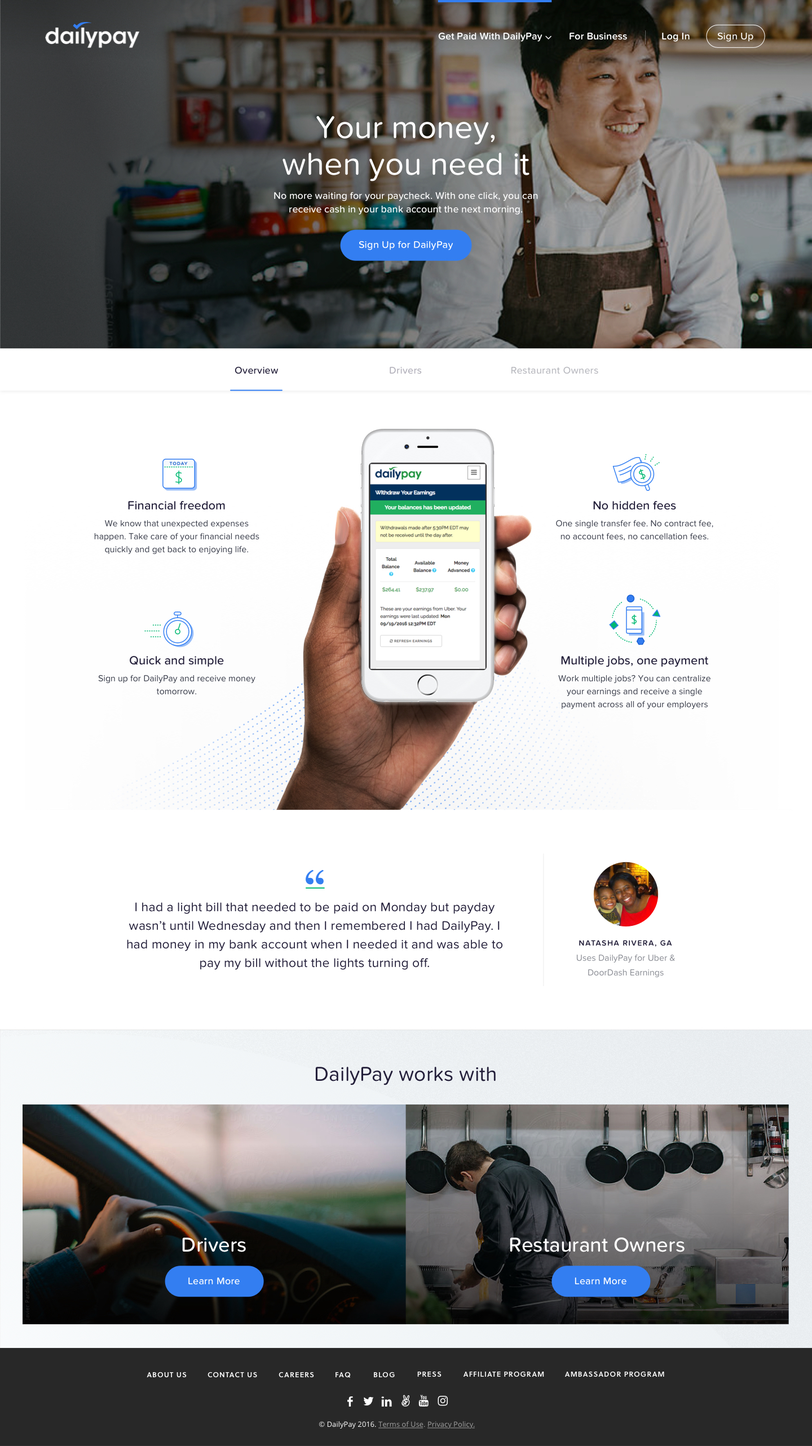
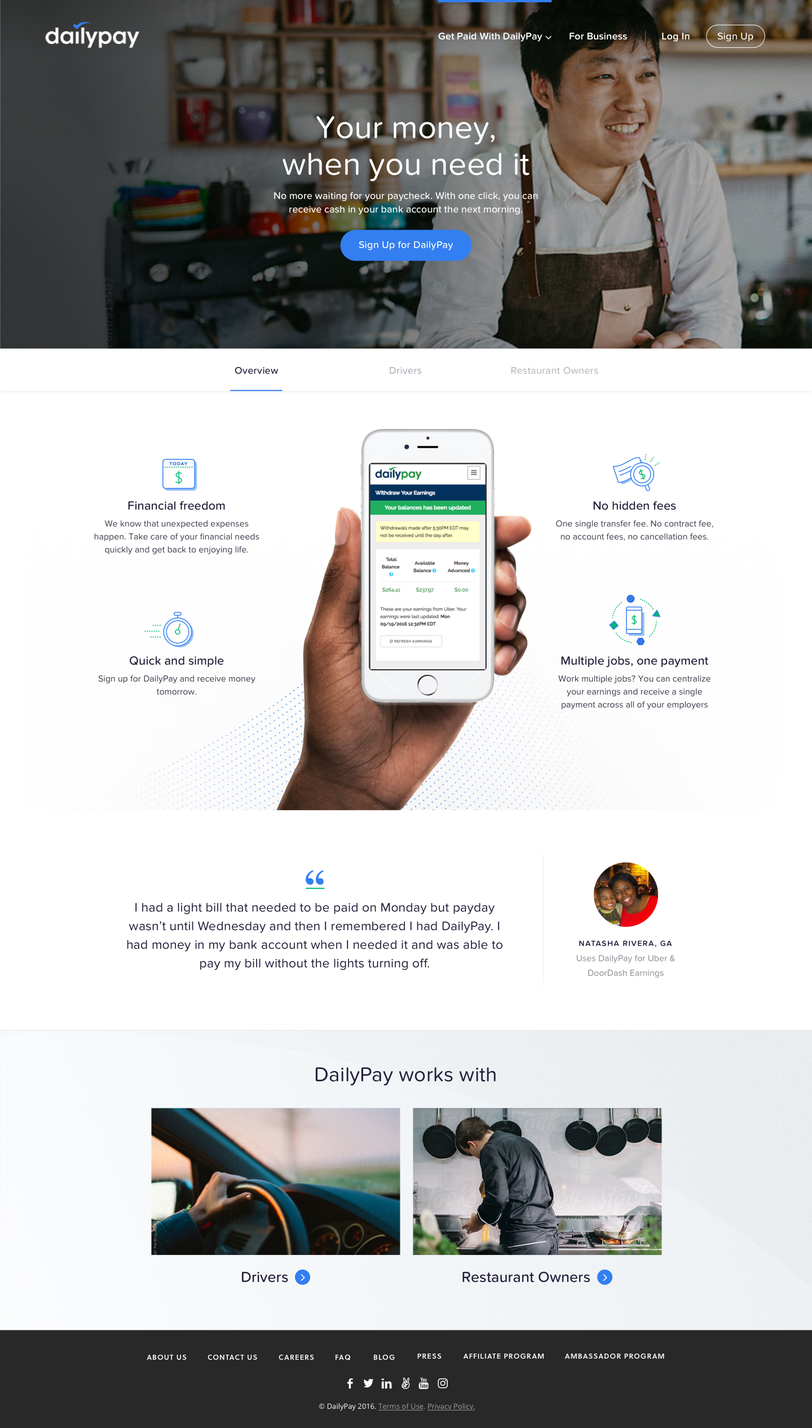
dailypay batch a v1 revisions push

diff --git a/dailypay/batch-a-v1/index.hyperesources/index_hype_generated_script.js b/dailypay/batch-a-v1/index.hyperesources/index_hype_generated_script.js
@@ -3,5 +3,5 @@
 (function(){(function k(){function l(a,b,d){var c=!1;null==window[a]&&(null==window[b]?(window[b]=[],window[b].push(k),a=document.getElementsByTagName("head")[0],b=document.createElement("script"),c=h,false==!0&&(c=""),b.type="text/javascript",b.src=c+"/"+d,a.appendChild(b)):window[b].push(k),c=!0);return c}var h="index.hyperesources",c="index",e="index_hype_container";if(false==!1)try{for(var f=document.getElementsByTagName("script"),
 a=0;a<f.length;a++){var b=f[a].src;if(null!=b&&-1!=b.indexOf("index_hype_generated_script.js")){h=b.substr(0,b.lastIndexOf("/"));break}}}catch(n){}if(false==!1&&(a=navigator.userAgent.match(/MSIE (\d+\.\d+)/),a=parseFloat(a&&a[1])||null,a=l("HYPE_538","HYPE_dtl_538",!0==(null!=a&&10>a||false==!0)?"HYPE-538.full.min.js":"HYPE-538.thin.min.js"),false==!0&&(a=a||l("HYPE_w_538","HYPE_wdtl_538","HYPE-538.waypoints.min.js")),a))return;
 f=window.HYPE.documents;if(null!=f[c]){b=1;a=c;do c=""+a+"-"+b++;while(null!=f[c]);for(var d=document.getElementsByTagName("div"),b=!1,a=0;a<d.length;a++)if(d[a].id==e&&null==d[a].getAttribute("HYP_dn")){var b=1,g=e;do e=""+g+"-"+b++;while(null!=document.getElementById(e));d[a].id=e;b=!0;break}if(!1==b)return}b=[];b=[];d={};g={};for(a=0;a<b.length;a++)try{g[b[a].identifier]=b[a].name,d[b[a].name]=eval("(function(){return "+b[a].source+"})();")}catch(m){window.console&&window.console.log(m),
-d[b[a].name]=function(){}}a=new HYPE_538(c,e,{"10":{p:1,n:"Batch_A_Drivers_v1.jpg",g:"25",o:true,t:"@1x"},"2":{p:1,n:"Drivers.png",g:"37",t:"@1x"},"3":{p:1,n:"Daily%20payments%20for.png",g:"39",t:"@1x"},"11":{p:1,n:"Batch_A_RestaurantOwners_v1.jpg",g:"29",t:"@1x"},"4":{p:1,n:"hero.png",g:"41",t:"@1x"},"5":{p:1,n:"main-nav.png",g:"43",t:"@1x"},"12":{p:1,n:"Batch_A_Business_v1.jpg",g:"31",o:true,t:"@1x"},"6":{n:"dailypay-animation.mp4",g:"52",t:"video/mp4"},"7":{p:1,n:"dropdown.png",g:"57",t:"@1x"},"0":{p:1,n:"hero-btn.png",g:"33",t:"@1x"},"8":{p:1,n:"Batch_A_ConsumerLanding_v1.jpg",g:"23",t:"@1x"},"1":{p:1,n:"Receive%20cash%20daily%20f.png",g:"35",t:"@1x"},"9":{p:1,n:"Batch_A_Homepage_v1.jpg",g:"21",t:"@1x"}},h,[],d,[{n:"Homepage",o:"7",X:[0]},{n:"Consumer Landing",o:"10",X:[1]},{n:"Drivers Page",o:"1",X:[2]},{n:"Restaurant Owners",o:"13",X:[3]},{n:"For Business",o:"16",X:[4]}],[{o:"9",p:"600px",x:0,cA:false,Z:2584,Y:1440,c:"#FFFFFF",L:[],bY:1,d:1440,U:{},T:{"59":{f:30,z:0.09,i:"59",n:"Dropdown Animation",j:{"0":[[882,190,882,190,882,181,882,181]]},a:[{f:"61",y:0,z:0.09,i:"e",e:1,s:0,o:"94"},{o:"94",y:0,z:0.09,i:"b",e:88,a:"0",f:"61",s:97},{o:"94",y:0,z:0.09,i:"a",e:760,a:"0",f:"61",s:760},{y:0,i:"cY",s:"0",z:0,o:"94",f:"61"},{y:0.09,i:"e",s:1,z:0,o:"94",f:"c"},{y:0.09,i:"a",s:760,z:0,o:"94",f:"c"},{y:0.09,i:"b",s:88,z:0,o:"94",f:"c"}],b:[]},kTimelineDefaultIdentifier:{i:"kTimelineDefaultIdentifier",n:"Main Timeline",z:0,b:[],a:[],f:30}},bZ:180,O:["94","95","93","92","91"],v:{"92":{c:177,d:62,I:"Solid",e:0,J:"Solid",K:"Solid",g:"#E8EBED",L:"Solid",aP:"pointer",M:1,N:1,A:"#D8DDE4",x:"visible",aA:{a:[{d:1.1000000000000001,p:1,g:1,e:"7"}]},j:"absolute",O:1,k:"div",C:"#D8DDE4",z:2,B:"#D8DDE4",D:"#D8DDE4",P:1,a:72,b:32},"95":{c:208,d:55,I:"Solid",e:0,J:"Solid",K:"Solid",g:"#E8EBED",L:"Solid",aP:"pointer",M:1,N:1,A:"#D8DDE4",x:"visible",aA:{a:[{d:1.1000000000000001,p:1,g:1,e:"10"}]},O:1,j:"absolute",k:"div",C:"#D8DDE4",z:5,B:"#D8DDE4",D:"#D8DDE4",aC:{a:[{b:"59",p:3,z:true,symbolOid:"8"}]},P:1,a:772,aD:{a:[{b:"59",p:3,z:false,symbolOid:"8"}]},b:46},"91":{h:"21",p:"no-repeat",x:"visible",a:0,q:"100% 100%",b:0,j:"absolute",r:"inline",c:1440,k:"div",z:1,d:2584},"94":{h:"57",p:"no-repeat",x:"visible",tY:0.5,a:760,b:88,q:"100% 100%",j:"absolute",z:6,cY:"1",k:"div",d:186,c:244,r:"inline",e:1,tX:0.5},"93":{c:108,d:33,I:"Solid",e:0,J:"Solid",K:"Solid",g:"#E8EBED",L:"Solid",aP:"pointer",M:1,N:1,A:"#D8DDE4",x:"visible",aA:{a:[{d:1.1000000000000001,p:1,g:1,e:"16"}]},j:"absolute",O:1,k:"div",C:"#D8DDE4",z:4,B:"#D8DDE4",D:"#D8DDE4",P:1,a:1004,b:46}}},{o:"12",p:"600px",x:1,cA:false,Z:2566,Y:1440,c:"#FFFFFF",L:[],bY:1,d:1440,U:{},T:{kTimelineDefaultIdentifier:{i:"kTimelineDefaultIdentifier",n:"Main Timeline",z:0,b:[],a:[],f:30}},bZ:180,O:["102","101","100","99","98","97","96"],v:{"99":{c:208,d:55,I:"Solid",e:0,J:"Solid",K:"Solid",g:"#E8EBED",L:"Solid",aP:"pointer",M:1,N:1,A:"#D8DDE4",x:"visible",aA:{a:[{d:1.1000000000000001,p:1,g:1,e:"10"}]},O:1,j:"absolute",k:"div",C:"#D8DDE4",z:4,B:"#D8DDE4",D:"#D8DDE4",aC:{a:[{b:"59",p:3,z:true,symbolOid:"8"}]},P:1,a:772,aD:{a:[{b:"59",p:3,z:false,symbolOid:"8"}]},b:46},"102":{c:177,d:68,I:"Solid",e:0,J:"Solid",K:"Solid",g:"#E8EBED",L:"Solid",aP:"pointer",M:1,N:1,A:"#D8DDE4",x:"visible",aA:{a:[{d:1.1000000000000001,p:1,g:1,e:"13"}]},j:"absolute",O:1,k:"div",C:"#D8DDE4",z:7,B:"#D8DDE4",D:"#D8DDE4",P:1,a:892,b:621},"97":{c:177,d:62,I:"Solid",e:0,J:"Solid",K:"Solid",g:"#E8EBED",L:"Solid",aP:"pointer",M:1,N:1,A:"#D8DDE4",x:"visible",aA:{a:[{d:1.1000000000000001,p:1,g:1,e:"7"}]},j:"absolute",O:1,k:"div",C:"#D8DDE4",z:2,B:"#D8DDE4",D:"#D8DDE4",P:1,a:72,b:32},"101":{c:100,d:68,I:"Solid",e:0,J:"Solid",K:"Solid",g:"#E8EBED",L:"Solid",aP:"pointer",M:1,N:1,A:"#D8DDE4",x:"visible",aA:{a:[{d:1.1000000000000001,p:1,g:1,e:"1"}]},j:"absolute",O:1,k:"div",C:"#D8DDE4",z:6,B:"#D8DDE4",D:"#D8DDE4",P:1,a:669,b:621},"98":{c:108,d:33,I:"Solid",e:0,J:"Solid",K:"Solid",g:"#E8EBED",L:"Solid",aP:"pointer",M:1,N:1,A:"#D8DDE4",x:"visible",aA:{a:[{d:1.1000000000000001,p:1,g:1,e:"16"}]},j:"absolute",O:1,k:"div",C:"#D8DDE4",z:3,B:"#D8DDE4",D:"#D8DDE4",P:1,a:1004,b:46},"100":{c:100,d:55,I:"Solid",e:0,J:"Solid",K:"Solid",g:"#E8EBED",L:"Solid",aP:"pointer",M:1,N:1,A:"#D8DDE4",x:"visible",aA:{a:[{d:1.1000000000000001,p:1,g:1,e:"10"}]},j:"absolute",O:1,k:"div",C:"#D8DDE4",z:5,B:"#D8DDE4",D:"#D8DDE4",P:1,a:405,b:627},"96":{h:"23",p:"no-repeat",x:"visible",a:0,q:"100% 100%",b:0,j:"absolute",r:"inline",c:1440,k:"div",z:1,d:2566}}},{o:"3",p:"600px",x:2,cA:false,Z:5341,Y:1440,c:"#F8F8F8",L:[],bY:1,d:1440,U:{},T:{kTimelineDefaultIdentifier:{f:30,z:17.04,i:"kTimelineDefaultIdentifier",n:"Main Timeline",j:{"3":[[718,306,718,306,718,291,718,291]],"1":[[721,242,721,242,721,227,721,227]],"4":[[718,378,718,378,718,363,718,363]],"2":[[876.5,2,876.5,2,877,2,877,2]],"5":[[720,452,720,452,720,437,720,437]]},a:[{f:"46",y:0,z:0.23,i:"cQ",e:1.02,s:1.2,o:"108"},{f:"46",y:0,z:0.23,i:"cR",e:1.02,s:1.2,o:"108"},{f:"c",y:0,z:0.23,i:"e",e:1,s:0,o:"108"},{f:"c",y:0,z:1,i:"e",e:1,s:0,o:"109"},{f:"c",y:0,z:1,i:"e",e:1,s:0,o:"111"},{y:0,p:1,i:"Video Track",z:17.04,o:"112",f:"a"},{o:"107",y:0.03,z:0.27,i:"b",e:210,a:"1",f:"c",s:225},{o:"107",y:0.03,z:0.27,i:"a",e:569.5,a:"1",f:"c",s:569.5},{f:"c",y:0.03,z:0.27,i:"e",e:1,s:0,o:"107"},{f:"87",y:0.06,z:0.06,i:"e",e:1,s:0,o:"119"},{o:"119",y:0.06,z:0.12,i:"a",e:774.5,a:"2",f:"87",s:876.5},{o:"119",y:0.06,z:0.12,i:"b",e:0,a:"2",f:"87",s:0},{f:"87",y:0.06,z:0.12,i:"c",e:205,s:0,o:"119"},{o:"106",y:0.07,z:0.23,i:"b",e:265.5,a:"3",f:"c",s:280.5},{o:"106",y:0.07,z:0.23,i:"a",e:607.5,a:"3",f:"c",s:607.5},{f:"c",y:0.07,z:0.23,i:"e",e:1,s:0,o:"106"},{o:"105",y:0.11,z:0.22,i:"b",e:342.5,a:"4",f:"c",s:357.5},{o:"105",y:0.11,z:0.22,i:"a",e:515,a:"4",f:"c",s:515},{f:"c",y:0.11,z:0.22,i:"e",e:1,s:0,o:"105"},{y:0.12,i:"e",s:1,z:0,o:"119",f:"c"},{o:"104",y:0.14,z:0.19,i:"b",e:409,a:"5",f:"c",s:424},{o:"104",y:0.14,z:0.19,i:"a",e:603,a:"5",f:"c",s:603},{f:"c",y:0.14,z:0.19,i:"e",e:1,s:0,o:"104"},{y:0.18,i:"b",s:0,z:0,o:"119",f:"c"},{y:0.18,i:"a",s:774,z:0,o:"119",f:"c"},{y:0.18,i:"c",s:205,z:0,o:"119",f:"c"},{y:0.23,i:"cQ",s:1.02,z:0,o:"108",f:"c"},{y:0.23,i:"cR",s:1.02,z:0,o:"108",f:"c"},{y:0.23,i:"e",s:1,z:0,o:"108",f:"c"},{y:1,i:"b",s:210,z:0,o:"107",f:"c"},{y:1,i:"a",s:569.5,z:0,o:"107",f:"c"},{y:1,i:"e",s:1,z:0,o:"107",f:"c"},{y:1,i:"b",s:265.5,z:0,o:"106",f:"c"},{y:1,i:"a",s:607.5,z:0,o:"106",f:"c"},{y:1,i:"e",s:1,z:0,o:"106",f:"c"},{y:1,i:"e",s:1,z:0,o:"109",f:"c"},{y:1,i:"e",s:1,z:0,o:"111",f:"c"},{y:1.03,i:"b",s:342.5,z:0,o:"105",f:"c"},{y:1.03,i:"a",s:515,z:0,o:"105",f:"c"},{y:1.03,i:"e",s:1,z:0,o:"105",f:"c"},{y:1.03,i:"b",s:409,z:0,o:"104",f:"c"},{y:1.03,i:"a",s:603,z:0,o:"104",f:"c"},{y:1.03,i:"e",s:1,z:0,o:"104",f:"c"}],b:[]}},bZ:180,O:["118","117","116","115","114","113","112","119","109","107","106","105","104","108","110","103","111"],v:{"114":{c:108,d:33,I:"Solid",e:0,J:"Solid",K:"Solid",g:"#E8EBED",L:"Solid",aP:"pointer",M:1,N:1,A:"#D8DDE4",x:"visible",aA:{a:[{d:1.1000000000000001,p:1,g:1,e:"16"}]},j:"absolute",O:1,k:"div",C:"#D8DDE4",z:13,B:"#D8DDE4",D:"#D8DDE4",P:1,a:1004,b:46},"103":{h:"25",p:"no-repeat",x:"visible",a:0,q:"100% 100%",b:-620,j:"absolute",bF:"111",c:1440,k:"div",z:1,d:5341,r:"inline"},"117":{c:100,d:68,I:"Solid",e:0,J:"Solid",K:"Solid",g:"#E8EBED",L:"Solid",aP:"pointer",M:1,N:1,A:"#D8DDE4",x:"visible",aA:{a:[{d:1.1000000000000001,p:1,g:1,e:"1"}]},j:"absolute",O:1,k:"div",C:"#D8DDE4",z:16,B:"#D8DDE4",D:"#D8DDE4",P:1,a:669,b:621},"112":{aR:true,x:"visible",bE:"52",a:0,b:1858,j:"absolute",z:11,k:"video",aO:false,d:934,c:1440,cQ:1.01,cR:1.01,aQ:true,aH:true},"106":{h:"37",p:"no-repeat",x:"visible",tY:0.5,a:607.5,q:"100% 100%",j:"absolute",b:280.5,z:4,k:"div",bF:"110",d:51,c:221,r:"inline",e:0,tX:0.5},"109":{h:"43",p:"no-repeat",x:"visible",tY:0.5,a:80,q:"100% 100%",j:"absolute",b:34,z:9,k:"div",c:1277,d:47,r:"inline",e:0,tX:0.5},"104":{h:"33",p:"no-repeat",x:"visible",tY:0.5,a:603,q:"100% 100%",j:"absolute",b:424,z:2,k:"div",bF:"110",d:56,c:234,r:"inline",e:0,tX:0.5},"110":{k:"div",x:"hidden",c:1440,d:620,z:3,a:0,j:"absolute",b:0},"115":{c:208,d:55,I:"Solid",e:0,J:"Solid",K:"Solid",g:"#E8EBED",L:"Solid",aP:"pointer",M:1,N:1,A:"#D8DDE4",x:"visible",aA:{a:[{d:1.1000000000000001,p:1,g:1,e:"10"}]},O:1,j:"absolute",k:"div",C:"#D8DDE4",z:14,B:"#D8DDE4",D:"#D8DDE4",aC:{a:[{b:"59",p:3,z:true,symbolOid:"8"}]},P:1,a:772,aD:{a:[{b:"59",p:3,z:false,symbolOid:"8"}]},b:46},"118":{c:177,d:68,I:"Solid",e:0,J:"Solid",K:"Solid",g:"#E8EBED",L:"Solid",aP:"pointer",M:1,N:1,A:"#D8DDE4",x:"visible",aA:{a:[{d:1.1000000000000001,p:1,g:1,e:"13"}]},j:"absolute",O:1,k:"div",C:"#D8DDE4",z:17,B:"#D8DDE4",D:"#D8DDE4",P:1,a:892,b:621},"107":{h:"39",p:"no-repeat",x:"visible",tY:0.5,a:569.5,q:"100% 100%",j:"absolute",b:225,z:5,k:"div",bF:"110",d:34,c:303,r:"inline",e:0,tX:0.5},"113":{c:177,d:62,I:"Solid",e:0,J:"Solid",K:"Solid",g:"#E8EBED",L:"Solid",aP:"pointer",M:1,N:1,A:"#D8DDE4",x:"visible",aA:{a:[{d:1.1000000000000001,p:1,g:1,e:"7"}]},j:"absolute",O:1,k:"div",C:"#D8DDE4",z:12,B:"#D8DDE4",D:"#D8DDE4",P:1,a:72,b:32},"116":{c:100,d:55,I:"Solid",e:0,J:"Solid",K:"Solid",g:"#E8EBED",L:"Solid",aP:"pointer",M:1,N:1,A:"#D8DDE4",x:"visible",aA:{a:[{d:1.1000000000000001,p:1,g:1,e:"10"}]},j:"absolute",O:1,k:"div",C:"#D8DDE4",z:15,B:"#D8DDE4",D:"#D8DDE4",P:1,a:405,b:627},"105":{h:"35",p:"no-repeat",x:"visible",tY:0.5,a:515,q:"100% 100%",j:"absolute",b:357.5,z:3,k:"div",bF:"110",d:41,c:406,r:"inline",e:0,tX:0.5},"111":{x:"hidden",k:"div",c:1440,d:4721,z:1,e:0,a:0,j:"absolute",b:620},"119":{b:0,c:0,d:4,I:"None",e:0,J:"None",K:"None",g:"#337FF2",L:"None",M:0,N:0,A:"#D8DDE4",x:"visible",j:"absolute",k:"div",O:0,B:"#D8DDE4",C:"#D8DDE4",z:10,P:0,D:"#D8DDE4",tX:0.5,a:876.5,tY:0.5},"108":{h:"41",p:"no-repeat",x:"visible",a:1,q:"100% 100%",b:0,j:"absolute",bF:"110",z:1,k:"div",c:1440,d:620.56899999999996,r:"inline",cQ:1.2,e:0,cR:1.2}}},{o:"15",p:"600px",x:3,cA:false,Z:5368,Y:1440,c:"#FFFFFF",L:[],bY:1,d:1440,U:{},T:{kTimelineDefaultIdentifier:{i:"kTimelineDefaultIdentifier",n:"Main Timeline",z:0,b:[],a:[],f:30}},bZ:180,O:["126","125","124","123","122","121","120"],v:{"122":{c:108,d:33,I:"Solid",e:0,J:"Solid",K:"Solid",g:"#E8EBED",L:"Solid",aP:"pointer",M:1,N:1,A:"#D8DDE4",x:"visible",aA:{a:[{d:1.1000000000000001,p:1,g:1,e:"16"}]},j:"absolute",O:1,k:"div",C:"#D8DDE4",z:3,B:"#D8DDE4",D:"#D8DDE4",P:1,a:1004,b:46},"125":{c:100,d:68,I:"Solid",e:0,J:"Solid",K:"Solid",g:"#E8EBED",L:"Solid",aP:"pointer",M:1,N:1,A:"#D8DDE4",x:"visible",aA:{a:[{d:1.1000000000000001,p:1,g:1,e:"1"}]},j:"absolute",O:1,k:"div",C:"#D8DDE4",z:6,B:"#D8DDE4",D:"#D8DDE4",P:1,a:669,b:621},"121":{c:177,d:62,I:"Solid",e:0,J:"Solid",K:"Solid",g:"#E8EBED",L:"Solid",aP:"pointer",M:1,N:1,A:"#D8DDE4",x:"visible",aA:{a:[{d:1.1000000000000001,p:1,g:1,e:"7"}]},j:"absolute",O:1,k:"div",C:"#D8DDE4",z:2,B:"#D8DDE4",D:"#D8DDE4",P:1,a:72,b:32},"124":{c:100,d:55,I:"Solid",e:0,J:"Solid",K:"Solid",g:"#E8EBED",L:"Solid",aP:"pointer",M:1,N:1,A:"#D8DDE4",x:"visible",aA:{a:[{d:1.1000000000000001,p:1,g:1,e:"10"}]},j:"absolute",O:1,k:"div",C:"#D8DDE4",z:5,B:"#D8DDE4",D:"#D8DDE4",P:1,a:405,b:627},"120":{h:"29",p:"no-repeat",x:"visible",a:0,q:"100% 100%",b:0,j:"absolute",r:"inline",c:1440,k:"div",z:1,d:5368},"123":{c:208,d:55,I:"Solid",e:0,J:"Solid",K:"Solid",g:"#E8EBED",L:"Solid",aP:"pointer",M:1,N:1,A:"#D8DDE4",x:"visible",aA:{a:[{d:1.1000000000000001,p:1,g:1,e:"10"}]},O:1,j:"absolute",k:"div",C:"#D8DDE4",z:4,B:"#D8DDE4",D:"#D8DDE4",aC:{a:[{b:"59",p:3,z:true,symbolOid:"8"}]},P:1,a:772,aD:{a:[{b:"59",p:3,z:false,symbolOid:"8"}]},b:46},"126":{c:177,d:68,I:"Solid",e:0,J:"Solid",K:"Solid",g:"#E8EBED",L:"Solid",aP:"pointer",M:1,N:1,A:"#D8DDE4",x:"visible",aA:{a:[{d:1.1000000000000001,p:1,g:1,e:"13"}]},j:"absolute",O:1,k:"div",C:"#D8DDE4",z:7,B:"#D8DDE4",D:"#D8DDE4",P:1,a:892,b:621}}},{o:"18",p:"600px",x:4,cA:false,Z:7074,Y:1440,c:"#FFFFFF",L:[],bY:1,d:1440,U:{},T:{kTimelineDefaultIdentifier:{i:"kTimelineDefaultIdentifier",n:"Main Timeline",z:0,b:[],a:[],f:30}},bZ:180,O:["130","129","128","127"],v:{"127":{h:"31",p:"no-repeat",x:"visible",a:0,q:"100% 100%",b:0,j:"absolute",r:"inline",c:1440,k:"div",z:1,d:7074},"128":{c:177,d:62,I:"Solid",e:0,J:"Solid",K:"Solid",g:"#E8EBED",L:"Solid",aP:"pointer",M:1,N:1,A:"#D8DDE4",x:"visible",aA:{a:[{d:1.1000000000000001,p:1,g:1,e:"7"}]},j:"absolute",O:1,k:"div",C:"#D8DDE4",z:2,B:"#D8DDE4",D:"#D8DDE4",P:1,a:72,b:32},"130":{c:208,d:55,I:"Solid",e:0,J:"Solid",K:"Solid",g:"#E8EBED",L:"Solid",aP:"pointer",M:1,N:1,A:"#D8DDE4",x:"visible",aA:{a:[{d:1.1000000000000001,p:1,g:1,e:"10"}]},O:1,j:"absolute",k:"div",C:"#D8DDE4",z:4,B:"#D8DDE4",D:"#D8DDE4",aC:{a:[{b:"59",p:3,z:true,symbolOid:"8"}]},P:1,a:772,aD:{a:[{b:"59",p:3,z:false,symbolOid:"8"}]},b:46},"129":{c:108,d:33,I:"Solid",e:0,J:"Solid",K:"Solid",g:"#E8EBED",L:"Solid",aP:"pointer",M:1,N:1,A:"#D8DDE4",x:"visible",aA:{a:[{d:1.1000000000000001,p:1,g:1,e:"16"}]},j:"absolute",O:1,k:"div",C:"#D8DDE4",z:3,B:"#D8DDE4",D:"#D8DDE4",P:1,a:1004,b:46}}}],{},g,{"61":[[0,0,0.4262,0.05393,0.07059,0.8431,1,1]],"87":[[0,0,0.4009,0.1659,-0.01832,0.6602,1,1]],"46":[[0,0,0.4171,0.07835,0.07777,0.8551,1,1]]},null,false,true,-1,true,true,false,true);f[c]=a.API;document.getElementById(e).setAttribute("HYP_dn",
+d[b[a].name]=function(){}}a=new HYPE_538(c,e,{"10":{p:1,n:"Batch_A_RestaurantOwners_v1.jpg",g:"29",t:"@1x"},"2":{p:1,n:"Drivers.png",g:"37",t:"@1x"},"3":{p:1,n:"Daily%20payments%20for.png",g:"39",t:"@1x"},"11":{p:1,n:"Batch_A_ConsumerLanding_v1.jpg",g:"23",t:"@1x"},"4":{p:1,n:"hero.png",g:"41",t:"@1x"},"5":{p:1,n:"main-nav.png",g:"43",t:"@1x"},"12":{p:1,n:"Batch_A_Business_v1.jpg",g:"31",o:true,t:"@1x"},"6":{n:"dailypay-animation.mp4",g:"52",t:"video/mp4"},"7":{p:1,n:"dropdown.png",g:"57",t:"@1x"},"0":{p:1,n:"hero-btn.png",g:"33",t:"@1x"},"8":{p:1,n:"Batch_A_Homepage_v1.jpg",g:"21",t:"@1x"},"1":{p:1,n:"Receive%20cash%20daily%20f.png",g:"35",t:"@1x"},"9":{p:1,n:"Batch_A_Drivers_v1.jpg",g:"25",o:true,t:"@1x"}},h,[],d,[{n:"Homepage",o:"7",X:[0]},{n:"Consumer Landing",o:"10",X:[1]},{n:"Drivers Page",o:"1",X:[2]},{n:"Restaurant Owners",o:"13",X:[3]},{n:"For Business",o:"16",X:[4]}],[{o:"9",p:"600px",x:0,cA:false,Z:2584,Y:1440,c:"#FFFFFF",L:[],bY:1,d:1440,U:{},T:{"59":{f:30,z:0.09,i:"59",n:"Dropdown Animation",j:{"0":[[882,190,882,190,882,181,882,181]]},a:[{f:"61",y:0,z:0.09,i:"e",e:1,s:0,o:"92"},{o:"92",y:0,z:0.09,i:"b",e:88,a:"0",f:"61",s:97},{o:"92",y:0,z:0.09,i:"a",e:760,a:"0",f:"61",s:760},{y:0,i:"cY",s:"0",z:0,o:"92",f:"61"},{y:0.09,i:"e",s:1,z:0,o:"92",f:"c"},{y:0.09,i:"a",s:760,z:0,o:"92",f:"c"},{y:0.09,i:"b",s:88,z:0,o:"92",f:"c"}],b:[]},kTimelineDefaultIdentifier:{i:"kTimelineDefaultIdentifier",n:"Main Timeline",z:0,b:[],a:[],f:30}},bZ:180,O:["92","95","94","93","91"],v:{"92":{h:"57",p:"no-repeat",x:"visible",tY:0.5,a:760,b:88,q:"100% 100%",j:"absolute",z:6,cY:"1",k:"div",d:186,c:244,r:"inline",e:1,tX:0.5},"95":{c:208,d:55,I:"Solid",e:0,J:"Solid",K:"Solid",g:"#E8EBED",L:"Solid",aP:"pointer",M:1,N:1,A:"#D8DDE4",x:"visible",aA:{a:[{d:1.1000000000000001,p:1,g:1,e:"10"}]},O:1,j:"absolute",k:"div",C:"#D8DDE4",z:5,B:"#D8DDE4",D:"#D8DDE4",aC:{a:[{b:"59",p:3,z:true,symbolOid:"8"}]},P:1,a:772,aD:{a:[{b:"59",p:3,z:false,symbolOid:"8"}]},b:46},"91":{h:"21",p:"no-repeat",x:"visible",a:0,q:"100% 100%",b:0,j:"absolute",r:"inline",c:1440,k:"div",z:1,d:2584},"94":{c:108,d:33,I:"Solid",e:0,J:"Solid",K:"Solid",g:"#E8EBED",L:"Solid",aP:"pointer",M:1,N:1,A:"#D8DDE4",x:"visible",aA:{a:[{d:1.1000000000000001,p:1,g:1,e:"16"}]},j:"absolute",O:1,k:"div",C:"#D8DDE4",z:4,B:"#D8DDE4",D:"#D8DDE4",P:1,a:1004,b:46},"93":{c:177,d:62,I:"Solid",e:0,J:"Solid",K:"Solid",g:"#E8EBED",L:"Solid",aP:"pointer",M:1,N:1,A:"#D8DDE4",x:"visible",aA:{a:[{d:1.1000000000000001,p:1,g:1,e:"7"}]},j:"absolute",O:1,k:"div",C:"#D8DDE4",z:2,B:"#D8DDE4",D:"#D8DDE4",P:1,a:72,b:32}}},{o:"12",p:"600px",x:1,cA:false,Z:2566,Y:1440,c:"#FFFFFF",L:[],bY:1,d:1440,U:{},T:{kTimelineDefaultIdentifier:{i:"kTimelineDefaultIdentifier",n:"Main Timeline",z:0,b:[],a:[],f:30}},bZ:180,O:["102","100","97","101","99","96","98"],v:{"99":{c:108,d:33,I:"Solid",e:0,J:"Solid",K:"Solid",g:"#E8EBED",L:"Solid",aP:"pointer",M:1,N:1,A:"#D8DDE4",x:"visible",aA:{a:[{d:1.1000000000000001,p:1,g:1,e:"16"}]},j:"absolute",O:1,k:"div",C:"#D8DDE4",z:3,B:"#D8DDE4",D:"#D8DDE4",P:1,a:1004,b:46},"102":{c:177,d:68,I:"Solid",e:0,J:"Solid",K:"Solid",g:"#E8EBED",L:"Solid",aP:"pointer",M:1,N:1,A:"#D8DDE4",x:"visible",aA:{a:[{d:1.1000000000000001,p:1,g:1,e:"13"}]},j:"absolute",O:1,k:"div",C:"#D8DDE4",z:7,B:"#D8DDE4",D:"#D8DDE4",P:1,a:892,b:621},"97":{c:100,d:55,I:"Solid",e:0,J:"Solid",K:"Solid",g:"#E8EBED",L:"Solid",aP:"pointer",M:1,N:1,A:"#D8DDE4",x:"visible",aA:{a:[{d:1.1000000000000001,p:1,g:1,e:"10"}]},j:"absolute",O:1,k:"div",C:"#D8DDE4",z:5,B:"#D8DDE4",D:"#D8DDE4",P:1,a:405,b:627},"101":{c:208,d:55,I:"Solid",e:0,J:"Solid",K:"Solid",g:"#E8EBED",L:"Solid",aP:"pointer",M:1,N:1,A:"#D8DDE4",x:"visible",aA:{a:[{d:1.1000000000000001,p:1,g:1,e:"10"}]},O:1,j:"absolute",k:"div",C:"#D8DDE4",z:4,B:"#D8DDE4",D:"#D8DDE4",aC:{a:[{b:"59",p:3,z:true,symbolOid:"8"}]},P:1,a:772,aD:{a:[{b:"59",p:3,z:false,symbolOid:"8"}]},b:46},"98":{h:"23",p:"no-repeat",x:"visible",a:0,q:"100% 100%",b:0,j:"absolute",r:"inline",c:1440,k:"div",z:1,d:2566},"100":{c:100,d:68,I:"Solid",e:0,J:"Solid",K:"Solid",g:"#E8EBED",L:"Solid",aP:"pointer",M:1,N:1,A:"#D8DDE4",x:"visible",aA:{a:[{d:1.1000000000000001,p:1,g:1,e:"1"}]},j:"absolute",O:1,k:"div",C:"#D8DDE4",z:6,B:"#D8DDE4",D:"#D8DDE4",P:1,a:669,b:621},"96":{c:177,d:62,I:"Solid",e:0,J:"Solid",K:"Solid",g:"#E8EBED",L:"Solid",aP:"pointer",M:1,N:1,A:"#D8DDE4",x:"visible",aA:{a:[{d:1.1000000000000001,p:1,g:1,e:"7"}]},j:"absolute",O:1,k:"div",C:"#D8DDE4",z:2,B:"#D8DDE4",D:"#D8DDE4",P:1,a:72,b:32}}},{o:"3",p:"600px",x:2,cA:false,Z:5341,Y:1440,c:"#F8F8F8",L:[],bY:1,d:1440,U:{},T:{kTimelineDefaultIdentifier:{f:30,z:17.04,i:"kTimelineDefaultIdentifier",n:"Main Timeline",j:{"3":[[718,306,718,306,718,291,718,291]],"1":[[721,242,721,242,721,227,721,227]],"4":[[718,378,718,378,718,363,718,363]],"2":[[876.5,2,876.5,2,877,2,877,2]],"5":[[720,452,720,452,720,437,720,437]]},a:[{f:"46",y:0,z:0.23,i:"cQ",e:1.02,s:1.2,o:"111"},{f:"46",y:0,z:0.23,i:"cR",e:1.02,s:1.2,o:"111"},{f:"c",y:0,z:0.23,i:"e",e:1,s:0,o:"111"},{f:"c",y:0,z:1,i:"e",e:1,s:0,o:"108"},{f:"c",y:0,z:1,i:"e",e:1,s:0,o:"116"},{y:0,p:1,i:"Video Track",z:17.04,o:"104",f:"a"},{o:"115",y:0.03,z:0.27,i:"b",e:210,a:"1",f:"c",s:225},{o:"115",y:0.03,z:0.27,i:"a",e:569.5,a:"1",f:"c",s:569.5},{f:"c",y:0.03,z:0.27,i:"e",e:1,s:0,o:"115"},{f:"87",y:0.06,z:0.06,i:"e",e:1,s:0,o:"106"},{o:"106",y:0.06,z:0.12,i:"a",e:774.5,a:"2",f:"87",s:876.5},{o:"106",y:0.06,z:0.12,i:"b",e:0,a:"2",f:"87",s:0},{f:"87",y:0.06,z:0.12,i:"c",e:205,s:0,o:"106"},{o:"113",y:0.07,z:0.23,i:"b",e:265.5,a:"3",f:"c",s:280.5},{o:"113",y:0.07,z:0.23,i:"a",e:607.5,a:"3",f:"c",s:607.5},{f:"c",y:0.07,z:0.23,i:"e",e:1,s:0,o:"113"},{o:"112",y:0.11,z:0.22,i:"b",e:342.5,a:"4",f:"c",s:357.5},{o:"112",y:0.11,z:0.22,i:"a",e:515,a:"4",f:"c",s:515},{f:"c",y:0.11,z:0.22,i:"e",e:1,s:0,o:"112"},{y:0.12,i:"e",s:1,z:0,o:"106",f:"c"},{o:"114",y:0.14,z:0.19,i:"b",e:409,a:"5",f:"c",s:424},{o:"114",y:0.14,z:0.19,i:"a",e:603,a:"5",f:"c",s:603},{f:"c",y:0.14,z:0.19,i:"e",e:1,s:0,o:"114"},{y:0.18,i:"b",s:0,z:0,o:"106",f:"c"},{y:0.18,i:"a",s:774,z:0,o:"106",f:"c"},{y:0.18,i:"c",s:205,z:0,o:"106",f:"c"},{y:0.23,i:"cQ",s:1.02,z:0,o:"111",f:"c"},{y:0.23,i:"cR",s:1.02,z:0,o:"111",f:"c"},{y:0.23,i:"e",s:1,z:0,o:"111",f:"c"},{y:1,i:"b",s:210,z:0,o:"115",f:"c"},{y:1,i:"a",s:569.5,z:0,o:"115",f:"c"},{y:1,i:"e",s:1,z:0,o:"115",f:"c"},{y:1,i:"b",s:265.5,z:0,o:"113",f:"c"},{y:1,i:"a",s:607.5,z:0,o:"113",f:"c"},{y:1,i:"e",s:1,z:0,o:"113",f:"c"},{y:1,i:"e",s:1,z:0,o:"108",f:"c"},{y:1,i:"e",s:1,z:0,o:"116",f:"c"},{y:1.03,i:"b",s:342.5,z:0,o:"112",f:"c"},{y:1.03,i:"a",s:515,z:0,o:"112",f:"c"},{y:1.03,i:"e",s:1,z:0,o:"112",f:"c"},{y:1.03,i:"b",s:409,z:0,o:"114",f:"c"},{y:1.03,i:"a",s:603,z:0,o:"114",f:"c"},{y:1.03,i:"e",s:1,z:0,o:"114",f:"c"}],b:[]}},bZ:180,O:["109","105","103","119","118","107","104","106","108","115","113","112","114","111","110","117","116"],v:{"114":{h:"33",p:"no-repeat",x:"visible",tY:0.5,a:603,q:"100% 100%",j:"absolute",b:424,z:2,k:"div",bF:"110",d:56,c:234,r:"inline",e:0,tX:0.5},"103":{c:100,d:55,I:"Solid",e:0,J:"Solid",K:"Solid",g:"#E8EBED",L:"Solid",aP:"pointer",M:1,N:1,A:"#D8DDE4",x:"visible",aA:{a:[{d:1.1000000000000001,p:1,g:1,e:"10"}]},j:"absolute",O:1,k:"div",C:"#D8DDE4",z:15,B:"#D8DDE4",D:"#D8DDE4",P:1,a:405,b:627},"117":{h:"25",p:"no-repeat",x:"visible",a:0,q:"100% 100%",b:-620,j:"absolute",bF:"116",c:1440,k:"div",z:1,d:5341,r:"inline"},"112":{h:"35",p:"no-repeat",x:"visible",tY:0.5,a:515,q:"100% 100%",j:"absolute",b:357.5,z:3,k:"div",bF:"110",d:41,c:406,r:"inline",e:0,tX:0.5},"106":{b:0,c:0,d:4,I:"None",e:0,J:"None",K:"None",g:"#337FF2",L:"None",M:0,N:0,A:"#D8DDE4",x:"visible",j:"absolute",k:"div",O:0,B:"#D8DDE4",C:"#D8DDE4",z:10,P:0,D:"#D8DDE4",tX:0.5,a:876.5,tY:0.5},"109":{c:177,d:68,I:"Solid",e:0,J:"Solid",K:"Solid",g:"#E8EBED",L:"Solid",aP:"pointer",M:1,N:1,A:"#D8DDE4",x:"visible",aA:{a:[{d:1.1000000000000001,p:1,g:1,e:"13"}]},j:"absolute",O:1,k:"div",C:"#D8DDE4",z:17,B:"#D8DDE4",D:"#D8DDE4",P:1,a:892,b:621},"104":{aR:"1",x:"visible",bE:"52",a:0,b:1858,j:"absolute",z:11,k:"video",aO:"0",d:934,c:1440,cQ:1.01,cR:1.01,aQ:"1",aH:"1"},"110":{k:"div",x:"hidden",c:1440,d:620,z:3,a:0,j:"absolute",b:0},"115":{h:"39",p:"no-repeat",x:"visible",tY:0.5,a:569.5,q:"100% 100%",j:"absolute",b:225,z:5,k:"div",bF:"110",d:34,c:303,r:"inline",e:0,tX:0.5},"118":{c:108,d:33,I:"Solid",e:0,J:"Solid",K:"Solid",g:"#E8EBED",L:"Solid",aP:"pointer",M:1,N:1,A:"#D8DDE4",x:"visible",aA:{a:[{d:1.1000000000000001,p:1,g:1,e:"16"}]},j:"absolute",O:1,k:"div",C:"#D8DDE4",z:13,B:"#D8DDE4",D:"#D8DDE4",P:1,a:1004,b:46},"107":{c:177,d:62,I:"Solid",e:0,J:"Solid",K:"Solid",g:"#E8EBED",L:"Solid",aP:"pointer",M:1,N:1,A:"#D8DDE4",x:"visible",aA:{a:[{d:1.1000000000000001,p:1,g:1,e:"7"}]},j:"absolute",O:1,k:"div",C:"#D8DDE4",z:12,B:"#D8DDE4",D:"#D8DDE4",P:1,a:72,b:32},"113":{h:"37",p:"no-repeat",x:"visible",tY:0.5,a:607.5,q:"100% 100%",j:"absolute",b:280.5,z:4,k:"div",bF:"110",d:51,c:221,r:"inline",e:0,tX:0.5},"116":{x:"hidden",k:"div",c:1440,d:4721,z:1,e:0,a:0,j:"absolute",b:620},"105":{c:100,d:68,I:"Solid",e:0,J:"Solid",K:"Solid",g:"#E8EBED",L:"Solid",aP:"pointer",M:1,N:1,A:"#D8DDE4",x:"visible",aA:{a:[{d:1.1000000000000001,p:1,g:1,e:"1"}]},j:"absolute",O:1,k:"div",C:"#D8DDE4",z:16,B:"#D8DDE4",D:"#D8DDE4",P:1,a:669,b:621},"111":{h:"41",p:"no-repeat",x:"visible",a:1,q:"100% 100%",b:0,j:"absolute",bF:"110",z:1,k:"div",c:1440,d:620.56899999999996,r:"inline",cQ:1.2,e:0,cR:1.2},"119":{c:208,d:55,I:"Solid",e:0,J:"Solid",K:"Solid",g:"#E8EBED",L:"Solid",aP:"pointer",M:1,N:1,A:"#D8DDE4",x:"visible",aA:{a:[{d:1.1000000000000001,p:1,g:1,e:"10"}]},O:1,j:"absolute",k:"div",C:"#D8DDE4",z:14,B:"#D8DDE4",D:"#D8DDE4",aC:{a:[{b:"59",p:3,z:true,symbolOid:"8"}]},P:1,a:772,aD:{a:[{b:"59",p:3,z:false,symbolOid:"8"}]},b:46},"108":{h:"43",p:"no-repeat",x:"visible",tY:0.5,a:80,q:"100% 100%",j:"absolute",b:34,z:9,k:"div",c:1277,d:47,r:"inline",e:0,tX:0.5}}},{o:"15",p:"600px",x:3,cA:false,Z:5368,Y:1440,c:"#FFFFFF",L:[],bY:1,d:1440,U:{},T:{kTimelineDefaultIdentifier:{i:"kTimelineDefaultIdentifier",n:"Main Timeline",z:0,b:[],a:[],f:30}},bZ:180,O:["125","121","126","122","120","124","123"],v:{"122":{c:208,d:55,I:"Solid",e:0,J:"Solid",K:"Solid",g:"#E8EBED",L:"Solid",aP:"pointer",M:1,N:1,A:"#D8DDE4",x:"visible",aA:{a:[{d:1.1000000000000001,p:1,g:1,e:"10"}]},O:1,j:"absolute",k:"div",C:"#D8DDE4",z:4,B:"#D8DDE4",D:"#D8DDE4",aC:{a:[{b:"59",p:3,z:true,symbolOid:"8"}]},P:1,a:772,aD:{a:[{b:"59",p:3,z:false,symbolOid:"8"}]},b:46},"125":{c:177,d:68,I:"Solid",e:0,J:"Solid",K:"Solid",g:"#E8EBED",L:"Solid",aP:"pointer",M:1,N:1,A:"#D8DDE4",x:"visible",aA:{a:[{d:1.1000000000000001,p:1,g:1,e:"13"}]},j:"absolute",O:1,k:"div",C:"#D8DDE4",z:7,B:"#D8DDE4",D:"#D8DDE4",P:1,a:892,b:621},"121":{c:100,d:68,I:"Solid",e:0,J:"Solid",K:"Solid",g:"#E8EBED",L:"Solid",aP:"pointer",M:1,N:1,A:"#D8DDE4",x:"visible",aA:{a:[{d:1.1000000000000001,p:1,g:1,e:"1"}]},j:"absolute",O:1,k:"div",C:"#D8DDE4",z:6,B:"#D8DDE4",D:"#D8DDE4",P:1,a:669,b:621},"124":{c:177,d:62,I:"Solid",e:0,J:"Solid",K:"Solid",g:"#E8EBED",L:"Solid",aP:"pointer",M:1,N:1,A:"#D8DDE4",x:"visible",aA:{a:[{d:1.1000000000000001,p:1,g:1,e:"7"}]},j:"absolute",O:1,k:"div",C:"#D8DDE4",z:2,B:"#D8DDE4",D:"#D8DDE4",P:1,a:72,b:32},"120":{c:108,d:33,I:"Solid",e:0,J:"Solid",K:"Solid",g:"#E8EBED",L:"Solid",aP:"pointer",M:1,N:1,A:"#D8DDE4",x:"visible",aA:{a:[{d:1.1000000000000001,p:1,g:1,e:"16"}]},j:"absolute",O:1,k:"div",C:"#D8DDE4",z:3,B:"#D8DDE4",D:"#D8DDE4",P:1,a:1004,b:46},"123":{h:"29",p:"no-repeat",x:"visible",a:0,q:"100% 100%",b:0,j:"absolute",r:"inline",c:1440,k:"div",z:1,d:5368},"126":{c:100,d:55,I:"Solid",e:0,J:"Solid",K:"Solid",g:"#E8EBED",L:"Solid",aP:"pointer",M:1,N:1,A:"#D8DDE4",x:"visible",aA:{a:[{d:1.1000000000000001,p:1,g:1,e:"10"}]},j:"absolute",O:1,k:"div",C:"#D8DDE4",z:5,B:"#D8DDE4",D:"#D8DDE4",P:1,a:405,b:627}}},{o:"18",p:"600px",x:4,cA:false,Z:7074,Y:1440,c:"#FFFFFF",L:[],bY:1,d:1440,U:{},T:{kTimelineDefaultIdentifier:{i:"kTimelineDefaultIdentifier",n:"Main Timeline",z:0,b:[],a:[],f:30}},bZ:180,O:["128","130","127","129"],v:{"127":{c:177,d:62,I:"Solid",e:0,J:"Solid",K:"Solid",g:"#E8EBED",L:"Solid",aP:"pointer",M:1,N:1,A:"#D8DDE4",x:"visible",aA:{a:[{d:1.1000000000000001,p:1,g:1,e:"7"}]},j:"absolute",O:1,k:"div",C:"#D8DDE4",z:2,B:"#D8DDE4",D:"#D8DDE4",P:1,a:72,b:32},"128":{c:208,d:55,I:"Solid",e:0,J:"Solid",K:"Solid",g:"#E8EBED",L:"Solid",aP:"pointer",M:1,N:1,A:"#D8DDE4",x:"visible",aA:{a:[{d:1.1000000000000001,p:1,g:1,e:"10"}]},O:1,j:"absolute",k:"div",C:"#D8DDE4",z:4,B:"#D8DDE4",D:"#D8DDE4",aC:{a:[{b:"59",p:3,z:true,symbolOid:"8"}]},P:1,a:772,aD:{a:[{b:"59",p:3,z:false,symbolOid:"8"}]},b:46},"130":{c:108,d:33,I:"Solid",e:0,J:"Solid",K:"Solid",g:"#E8EBED",L:"Solid",aP:"pointer",M:1,N:1,A:"#D8DDE4",x:"visible",aA:{a:[{d:1.1000000000000001,p:1,g:1,e:"16"}]},j:"absolute",O:1,k:"div",C:"#D8DDE4",z:3,B:"#D8DDE4",D:"#D8DDE4",P:1,a:1004,b:46},"129":{h:"31",p:"no-repeat",x:"visible",a:0,q:"100% 100%",b:0,j:"absolute",r:"inline",c:1440,k:"div",z:1,d:7074}}}],{},g,{"61":[[0,0,0.4262,0.05393,0.07059,0.8431,1,1]],"87":[[0,0,0.4009,0.1659,-0.01832,0.6602,1,1]],"46":[[0,0,0.4171,0.07835,0.07777,0.8551,1,1]]},null,false,true,-1,true,true,false,true);f[c]=a.API;document.getElementById(e).setAttribute("HYP_dn",
 c);a.z_o(this.body)})();})();

diff --git a/dailypay/batch-a-v1/index.html b/dailypay/batch-a-v1/index.html
@@ -24,7 +24,7 @@
 	<!-- copy these lines to your document: -->
 
 	<div id="index_hype_container" style="margin:auto;position:relative;width:1440px;height:2584px;overflow:hidden;" aria-live="polite">
-		<script type="text/javascript" charset="utf-8" src="index.hyperesources/index_hype_generated_script.js?12381"></script>
+		<script type="text/javascript" charset="utf-8" src="index.hyperesources/index_hype_generated_script.js?3125"></script>
 	</div>
 
 	<!-- end copy -->
